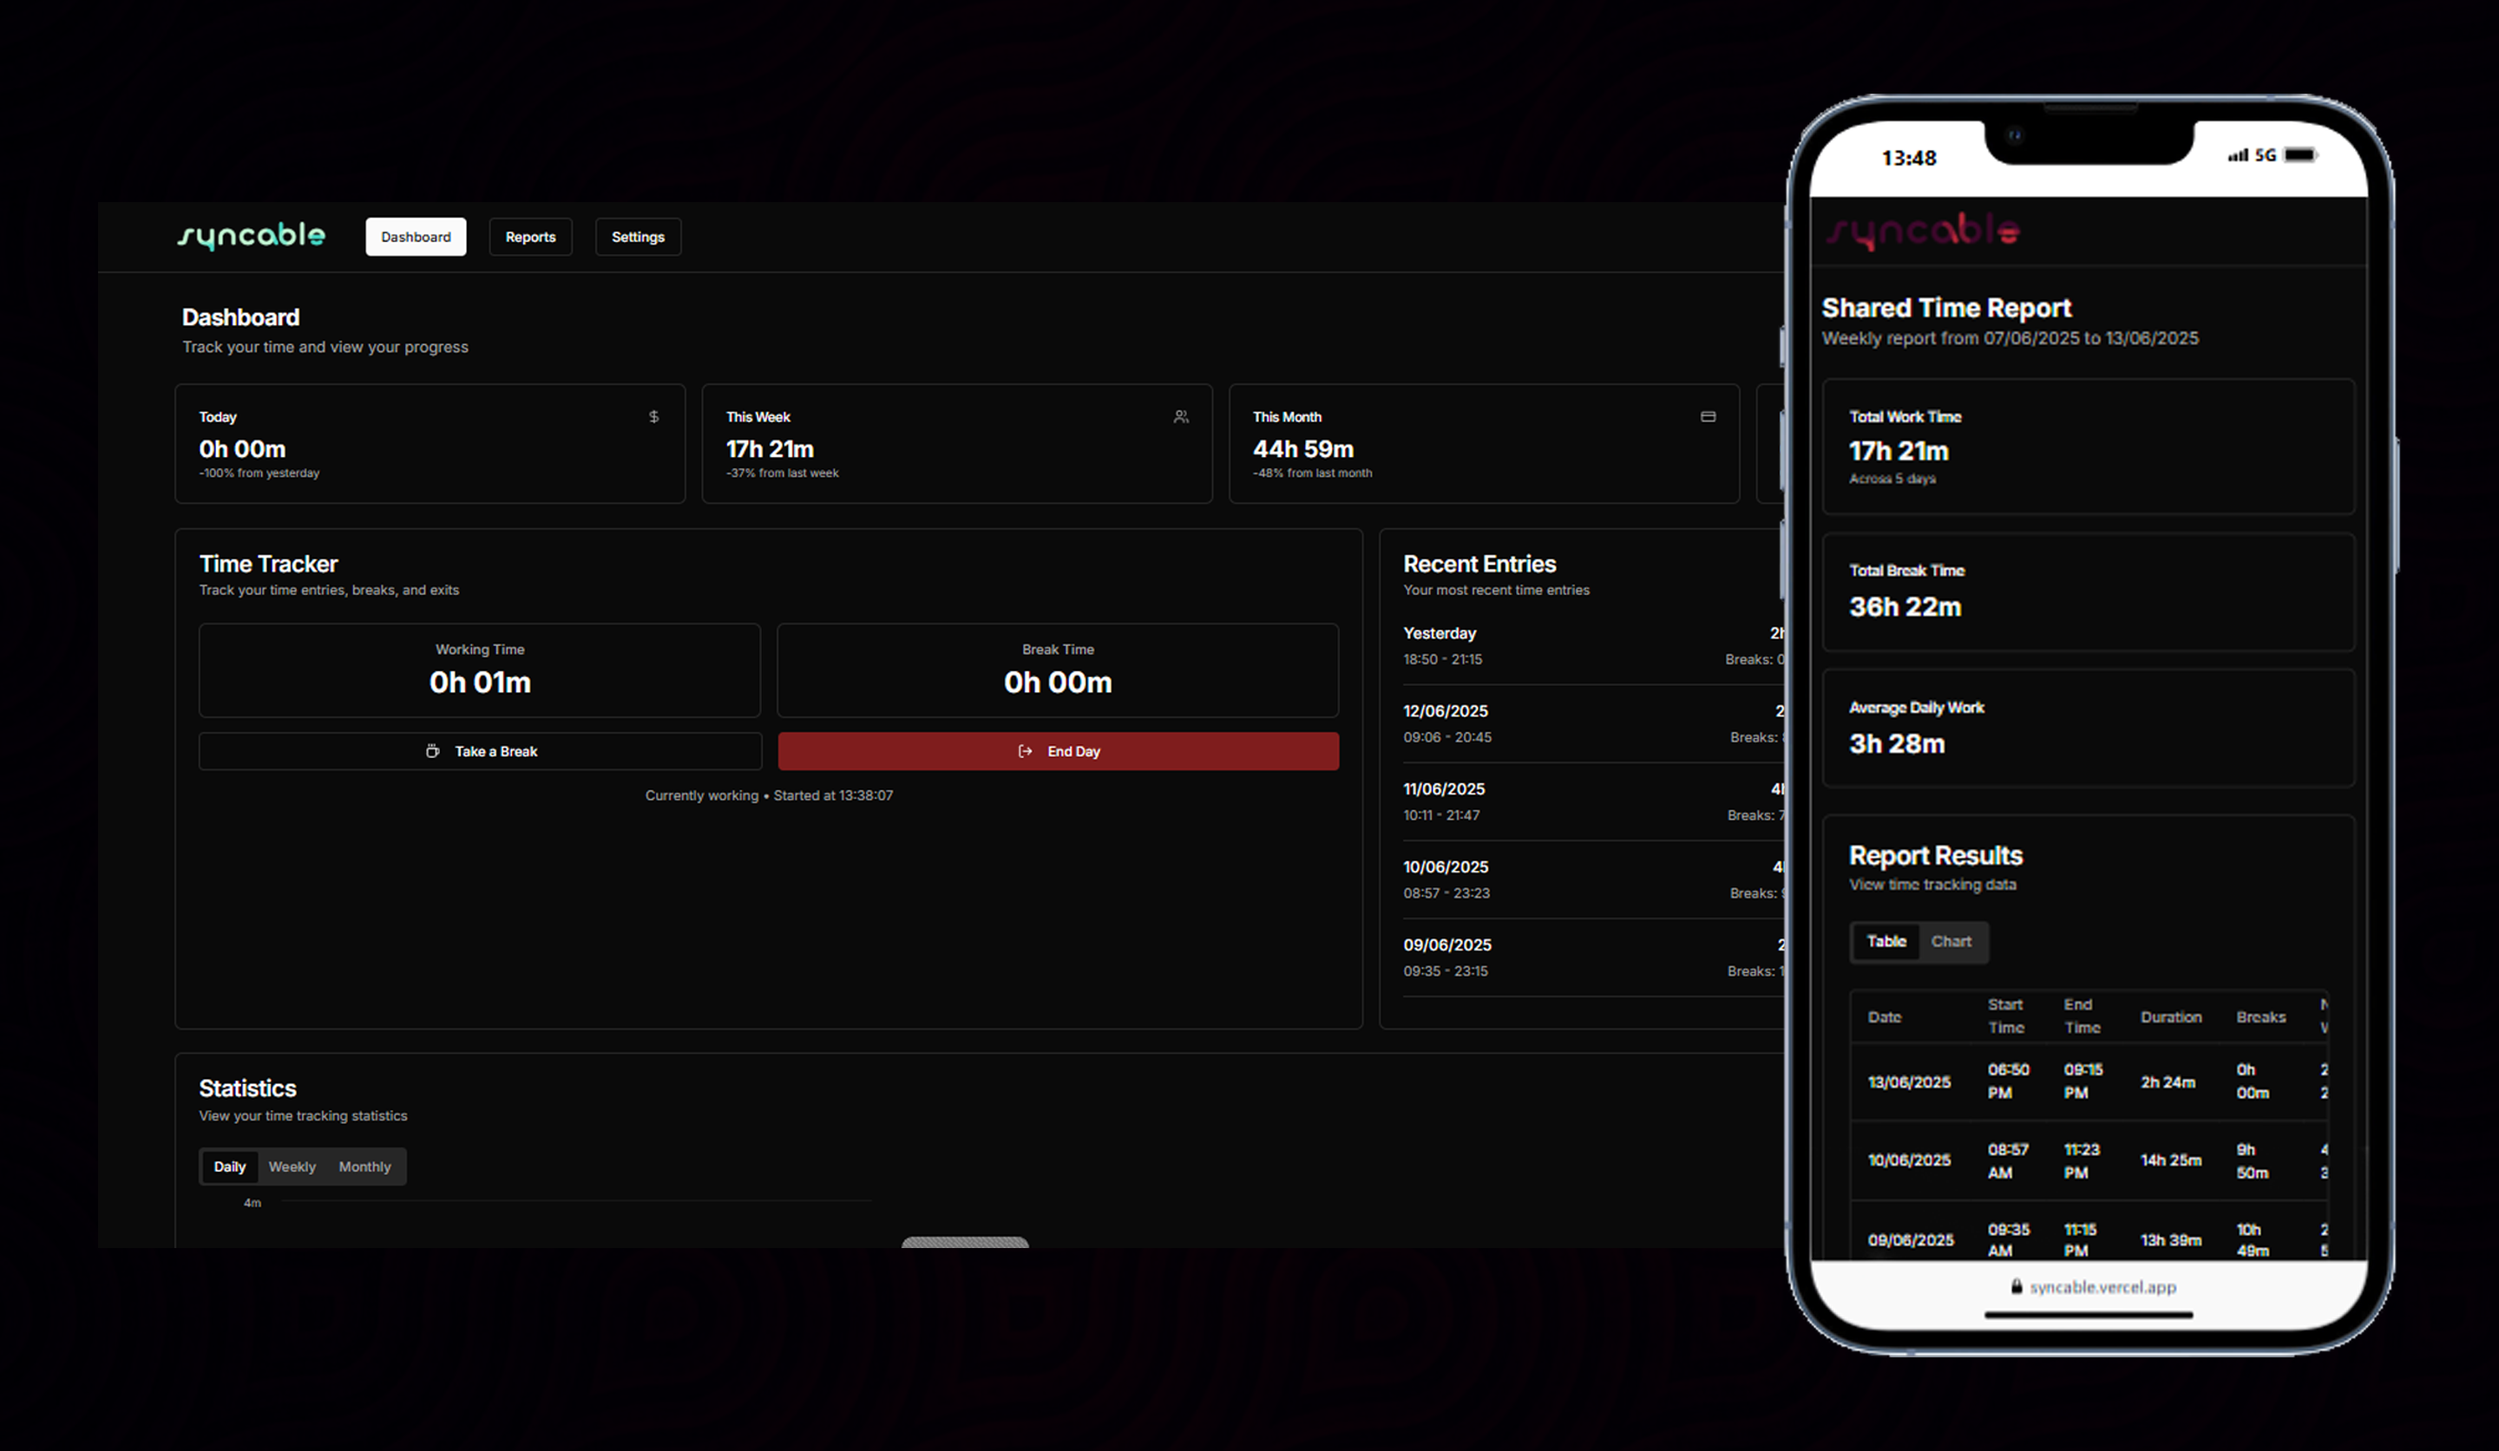
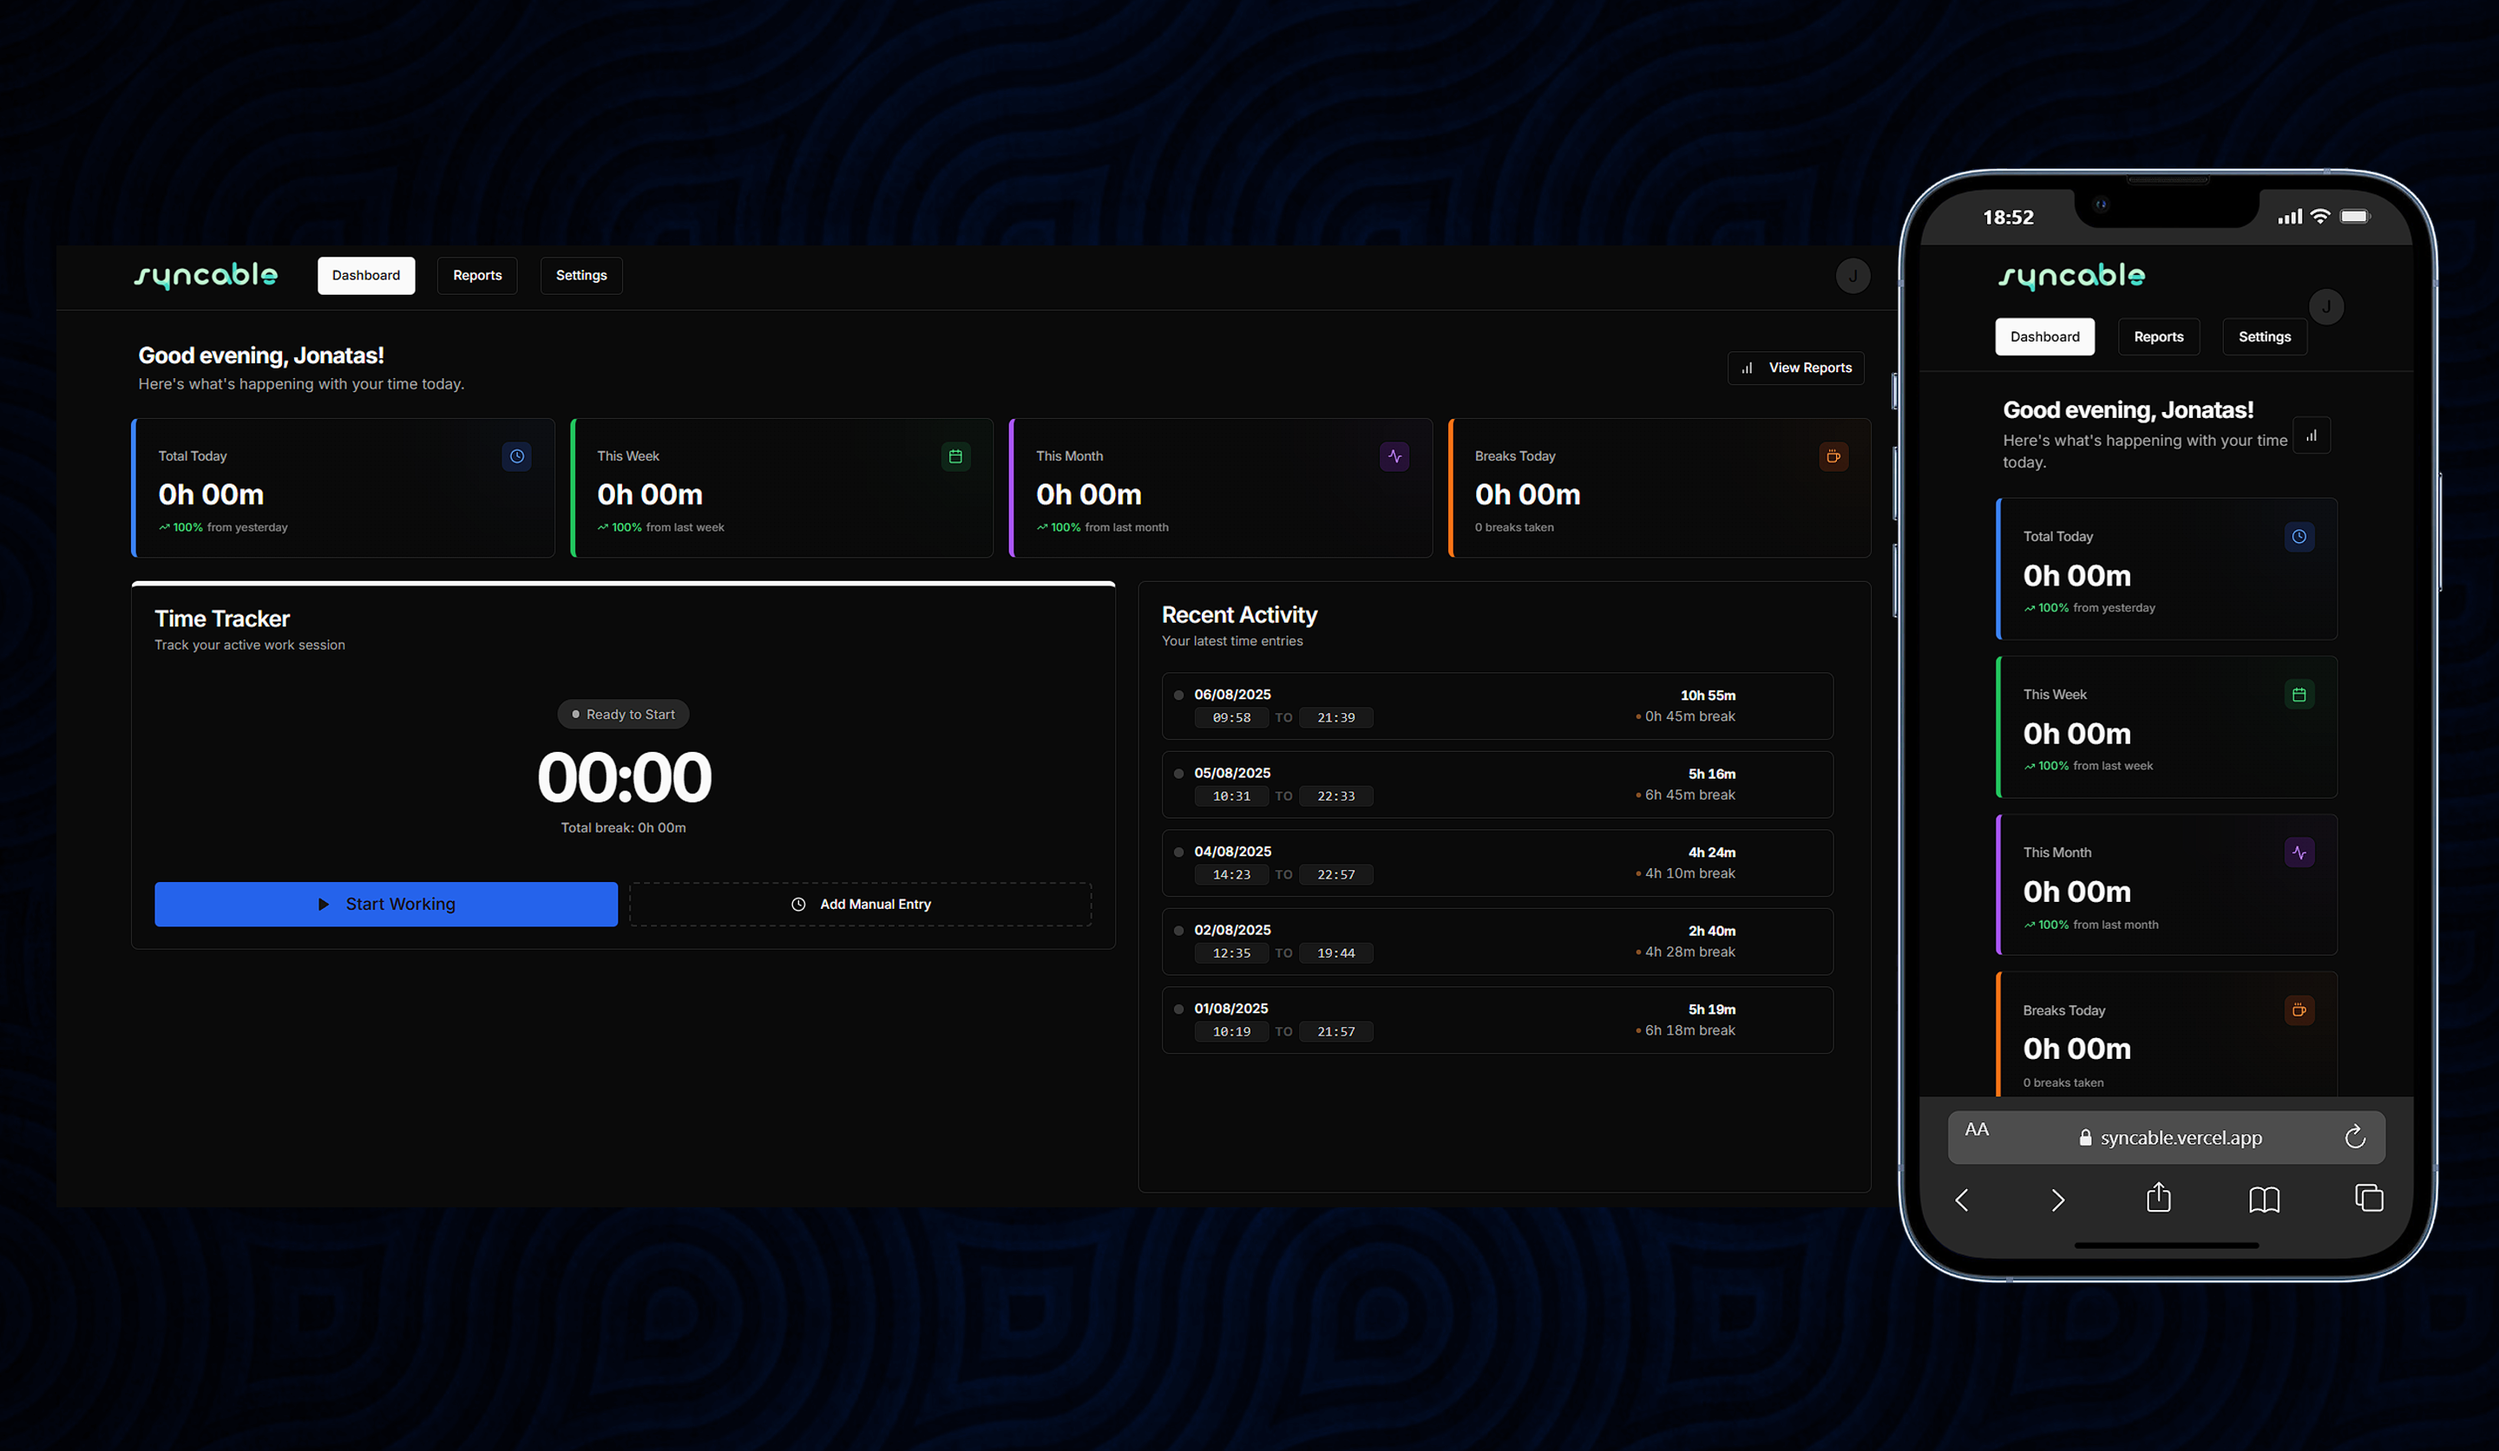
feat: revamp README with comprehensive project details, architecture, and features, including a new project preview

diff --git a/README.md b/README.md
@@ -1,87 +1,135 @@
-<div align="center">
-<image width='500px' src="https://img001.prntscr.com/file/img001/jnKXg3zHQnOB8RAdz0eIKA.png" />
-</div>
+# Syncable - Gestão de Ponto & Payroll Dashboard
 
-<div align="center">
-<image src="https://img001.prntscr.com/file/img001/woAiaPeZQ1eVDCST3xroDQ.png" />
-</div>
+Plataforma moderna, intuitiva e responsiva desenvolvida com **Next.js 15**, focada na gestão completa de ponto eletrônico, controle de jornadas, pausas e geração de relatórios detalhados para profissionais e empresas.
 
-**Syncable** é uma plataforma moderna e intuitiva para gestão de ponto eletrônico. Com recursos avançados de registro de horas e geração de relatórios, a aplicação oferece uma solução completa para empresas e profissionais que precisam controlar suas jornadas de trabalho de forma eficiente.
+<h1 align="center">
+  <img alt="Banner do Syncable" title="#Banner" style="object-fit: cover; width: 100%; max-height: 520px" src="public/preview.webp" />
+</h1>
 
-## 🔍 Funcionalidades Principais
+## Funcionalidades e Módulos
 
-- **Registro de Ponto**: Registro de entrada, saída e pausas com timestamp preciso.
-- **Relatórios**: Geração de relatórios detalhados de horas trabalhadas.
-- **Exportação**: Compartilhamento de dados via CSV e links dinâmicos.
-- **Dashboard**: Visualização clara do histórico de registros e estatísticas.
+- 🌓 **Interface Premium:** Design moderno com suporte nativo a temas Claro/Escuro via Tailwind CSS.
+- ⏱ **Registro de Ponto em Tempo Real:** Dashboard interativo para registro instantâneo de entrada, saída e controle de intervalos (pausas).
+- 📊 **Estatísticas Avançadas:** Visualização dinâmica de horas trabalhadas, médias semanais e mensais através de gráficos interativos com **Recharts**.
+- 📂 **Gestão de Entradas Manuais:** Flexibilidade para adicionar, editar ou excluir registros históricos, facilitando correções retroativas.
+- 📄 **Relatórios Inteligentes:** Geração de relatórios com filtros por período e visualização detalhada de jornadas, breaks e horas líquidas.
+- 🔗 **Compartilhamento Seguro:** Sistema de links públicos temporários (Shared Reports) protegidos por tokens únicos, permitindo o compartilhamento seguro com gestores.
+- ⚙ **Configurações de Conta:** Gestão de perfil, preferências de exibição de tempo e segurança integrada.
+- 📱 **Mobile First:** Experiência totalmente adaptativa, garantindo produtividade tanto no Desktop quanto em dispositivos móveis.
 
----
+## Estrutura do Projeto
 
-## 🧱 Arquitetura
-
-A aplicação utiliza a arquitetura padrão do [Next.js](https://nextjs.org/), com:
-
-- Rotas baseadas em arquivos.
-- Suporte a SSR e CSR.
-- Componentização e modularização.
-- Redux para controle global de estado.
-
----
-
-## ⚙ Instalação
-
-1. **Clone o repositório**
-
-```bash
-git clone https://github.com/seu-usuario/syncable.git
-cd syncable
+```txt
+app/
+├── (auth)/                         # Fluxos de autenticação (Login e Registro)
+├── dashboard/                      # O coração da plataforma: métricas e tracker
+├── reports/                        # Módulo de filtragem e geração de relatórios
+├── shared-report/                  # Visualização pública anônima via tokens
+├── settings/                       # Painel de controle do usuário e preferências
+├── actions/                        # Core de negócios (Server Actions)
+│   ├── time-entries.ts             # Lógica de punch-in/out e intervalos
+│   ├── reports.ts                  # Engine de processamento de dados para relatórios
+│   ├── dashboard-summary.ts        # Agregador de métricas para o dashboard
+│   └── user-settings.ts            # Gestão de preferências e perfil
+├── components/                     # Componentes de interface (UI & UX)
+│   ├── time-tracker.tsx            # Widget interativo de controle de ponto
+│   ├── recent-entries.tsx          # Feed de atividades recentes
+│   ├── stats/                      # Gráficos e módulos de estatísticas
+│   └── ui/                         # Base atômica Shadcn UI + Radix
+├── lib/                            # Utilitários, hooks e configuração de DB
+└── public/                         # Ativos estáticos e capturas de tela
 ```
 
-2. **Instale as dependências**
+## Arquitetura e Decisões de Design
 
-   ```bash
-   npm install
-   ```
+### Sincronização em Tempo Real (Server Actions & Neon)
 
-3. **Configure variáveis de ambiente**
+Diferente de arquiteturas que utilizam APIs REST ou GraphQL tradicionais, o **Syncable** utiliza o poder do **Next.js Server Actions** para interagir diretamente com o banco de dados **Neon Serverless (PostgreSQL) através do driver `@neondatabase/serverless`**.
+Isso elimina o overhead de rede e garante que a lógica de negócio esteja sempre próxima aos dados, enquanto o TypeScript assegura a integridade dos dados de ponta a ponta.
 
-   Crie um arquivo `.env` na raiz do projeto com o conteúdo abaixo:
+### Fluxo de Trabalho do Time Tracker
 
-   ```dotenv
-   NEXT_PUBLIC_API_BASE_URL=http://localhost:3000/api
-   ```
+Abaixo está o fluxo simplificado de como o sistema gerencia as jornadas de trabalho:
 
-4. **Execute em modo de desenvolvimento**
+```mermaid
+flowchart TD
+    %% Nós do diagrama
+    A[Usuário abre o Dashboard]
+    B[Widget TimeTracker]
+    C{Usuário clica em 'Iniciar'?}
+    D["Server Action: startTimeEntry"]
+    E[Neon SQL: INSERT INTO time_entries]
+    F[RevalidatePath: /dashboard]
+    G[UI Reativa: Estado Ativo]
 
-   ```bash
-   npm run dev
-   ```
+    H{Usuário clica em 'Pausar'?}
+    I["Server Action: startBreak"]
+    J[Neon SQL: INSERT INTO breaks]
+    K[RevalidatePath: /dashboard]
 
-5. **Acesse a aplicação**
-   Abra no navegador:
-   ```
-   http://localhost:3000
-   ```
+    L{Usuário clica em 'Finalizar'?}
+    M["Server Action: endTimeEntry"]
+    N[Neon SQL: UPDATE status='completed']
+    P[Cálculo de Duração & Total Break]
+
+    %% Conexões
+    A --> B
+    B --> C
+    C -->|Sim| D
+    D --> E
+    E --> F
+    F --> G
+
+    G -.-> H
+    H -->|Sim| I
+    I --> J
+    J --> K
+    K --> G
+
+    G -.-> L
+    L -->|Sim| M
+    M --> N
+    N --> P
+    P --> F
+```
+
+### Por Que Neon Serverless (Raw SQL)?
+
+Decidimos utilizar o driver sem servidor do **Neon** com consultas SQL puras (raw queries) em vez de um ORM pesado (como Prisma ou TypeORM). Isso resulta em:
+
+1. **Cold Starts Zero:** Resposta instantânea nas Server Actions.
+2. **Consultas Otimizadas:** Controle granular sobre agregações complexas de tempo e horas.
+3. **Leveza:** Redução drástica no tamanho final do pacote servido pelo Next.js.
+
+## Tecnologias Utilizadas
+
+<div align="center">
+  <img src="https://img.shields.io/badge/Next.js_15-000?style=for-the-badge&logo=next.js&logoColor=white" />
+  <img src="https://img.shields.io/badge/TypeScript-3178C6?style=for-the-badge&logo=typescript&logoColor=white" />
+  <img src="https://img.shields.io/badge/React_19-61DAFB?style=for-the-badge&logo=react&logoColor=black" />
+  <img src="https://img.shields.io/badge/Tailwind_CSS-38B2AC?style=for-the-badge&logo=tailwind-css&logoColor=white" />
+  <img src="https://img.shields.io/badge/shadcn/ui-000?style=for-the-badge&logo=shadcnui&logoColor=white" />
+  <img src="https://img.shields.io/badge/PostgreSQL_(Neon)-4169E1?style=for-the-badge&logo=postgresql&logoColor=white" />
+  <img src="https://img.shields.io/badge/Recharts-22b5bf?style=for-the-badge&logo=recharts&logoColor=white" />
+  <img src="https://img.shields.io/badge/React_Hook_Form-EC5990?style=for-the-badge&logo=reacthookform&logoColor=white" />
+  <img src="https://img.shields.io/badge/Zod-3E67B1?style=for-the-badge&logo=zorin&logoColor=white" />
+  <img src="https://img.shields.io/badge/Vercel-000?style=for-the-badge&logo=vercel&logoColor=white" />
+</div>
+
+> Tecnologias-chave: SSR com React 19 / Next.js 15, Neon Serverless, Recharts, Shadcn UI, Zustand para estado leve e Zod para validação.
+
+## Desenvolvedor
+
+| Foto                                                                                                                             | Nome                                                 | Cargo                                      |
+| :------------------------------------------------------------------------------------------------------------------------------- | :--------------------------------------------------- | :----------------------------------------- |
+| <img src="https://avatars.githubusercontent.com/u/100796752?s=400&u=ae99bd456c6b274cd934d85a374a44340140e222&v=4" width="100" /> | [Jonatas Silva](https://github.com/JsCodeDevlopment) | Senior Software Engineer / CTO & Tech Lead |
+
+## Licença
+
+Este projeto é privado e de uso restrito da **Syncable Corporation**.
 
 ---
 
-## 🚀 Tecnologias Utilizadas
-
-![React.js](https://img.shields.io/badge/React-20232A?style=for-the-badge&logo=react&logoColor=61DAFB)&nbsp;
-![Tailwindcss](https://img.shields.io/badge/Tailwind_CSS-38B2AC?style=for-the-badge&logo=tailwind-css&logoColor=white)&nbsp;
-![Next.js](https://img.shields.io/badge/next%20js-000000?style=for-the-badge&logo=nextdotjs&logoColor=white)&nbsp;
-![Tanstack Query](https://img.shields.io/badge/-Tanstack%20Query-FF4154?style=for-the-badge&logo=react%20query&logoColor=white)
-![Shadcn](https://img.shields.io/badge/shadcn%2Fui-000000?style=for-the-badge&logo=shadcnui&logoColor=white)
-![Axios](https://img.shields.io/badge/axios-671ddf?&style=for-the-badge&logo=axios&logoColor=white)
-![Typescript](https://img.shields.io/badge/TypeScript-007ACC?style=for-the-badge&logo=typescript&logoColor=white)&nbsp;
-![Git](https://img.shields.io/badge/GIT-E44C30?style=for-the-badge&logo=git&logoColor=white)&nbsp;
-![Github](https://img.shields.io/badge/GitHub-100000?style=for-the-badge&logo=github&logoColor=white)&nbsp;
-![Vercel](https://img.shields.io/badge/vercel-%23000000.svg?style=for-the-badge&logo=vercel&logoColor=white)
-
-## 👨💻 Desenvolvedores
-
-| Foto                                                                                                                           | Nome                                                 | Cargo               |
-| ------------------------------------------------------------------------------------------------------------------------------ | ---------------------------------------------------- | ------------------- |
-| <img src="https://avatars.githubusercontent.com/u/100796752?s=400&u=ae99bd456c6b274cd934d85a374a44340140e222&v=4" width="100"> | [Jonatas Silva](https://github.com/JsCodeDevlopment) | FullStack Developer |
-
----
+<div align="center">
+  <sub>Built with ❤ by <a href="https://github.com/JsCodeDevlopment">Jonatas Silva</a></sub>
+</div>
